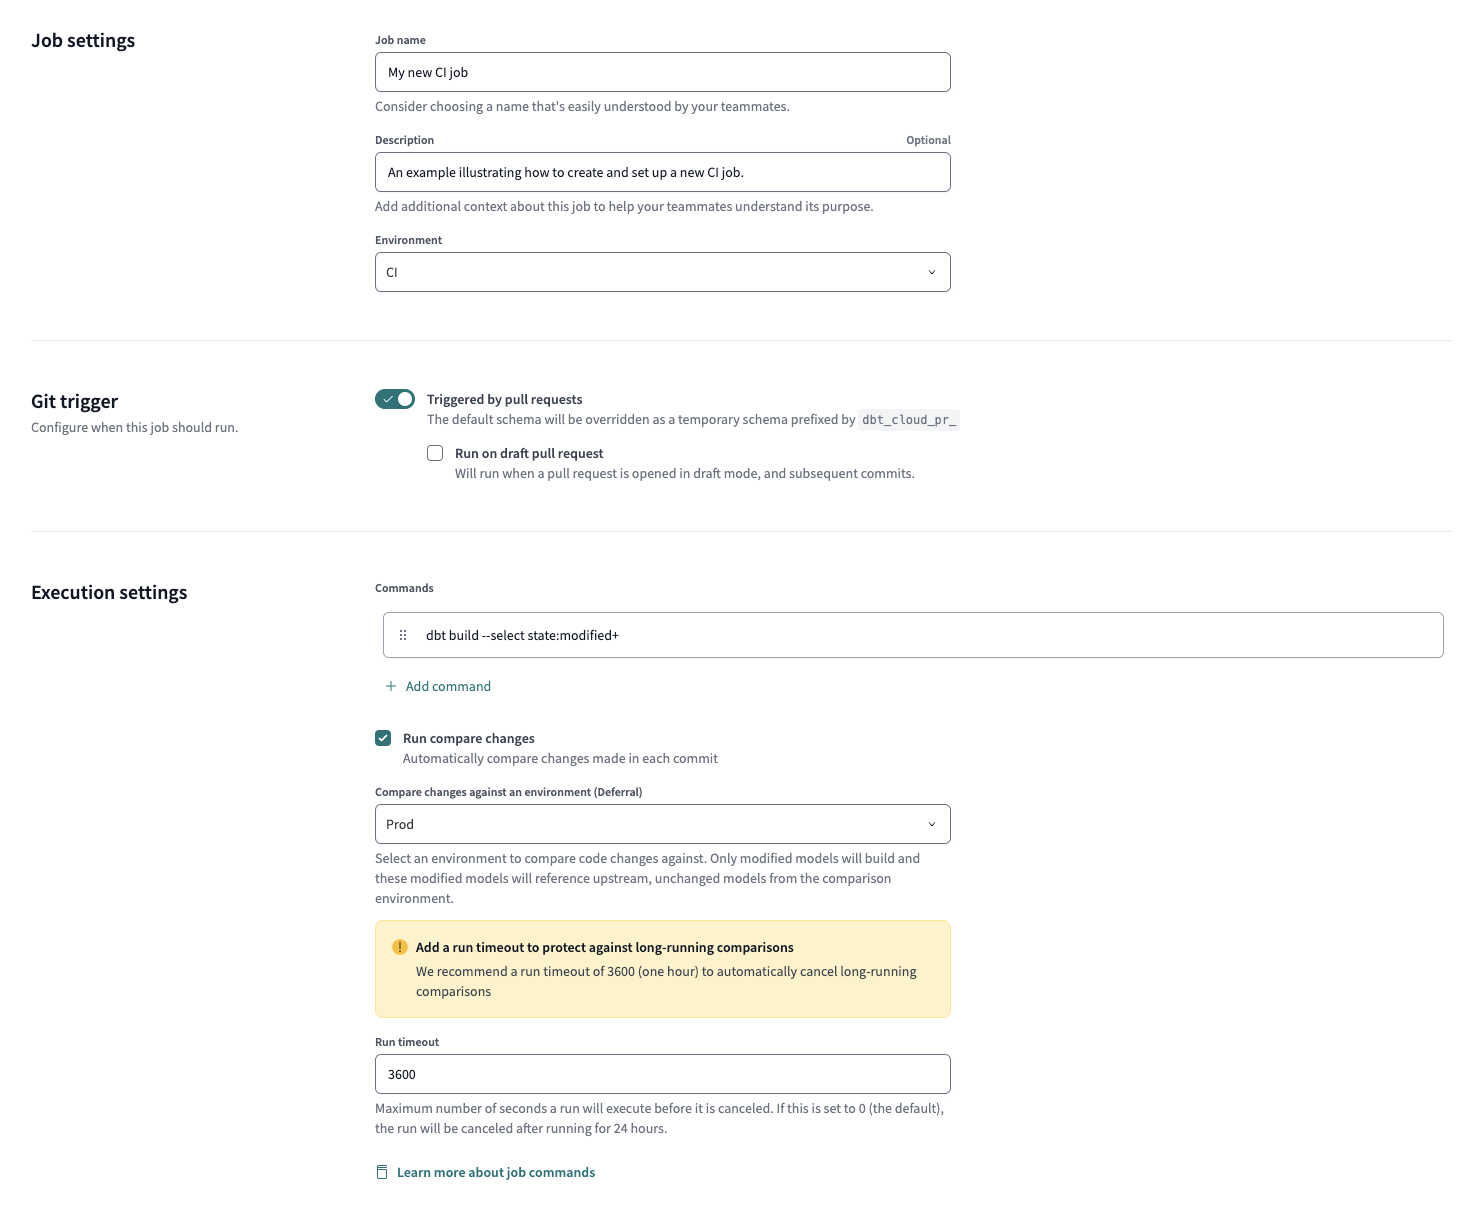
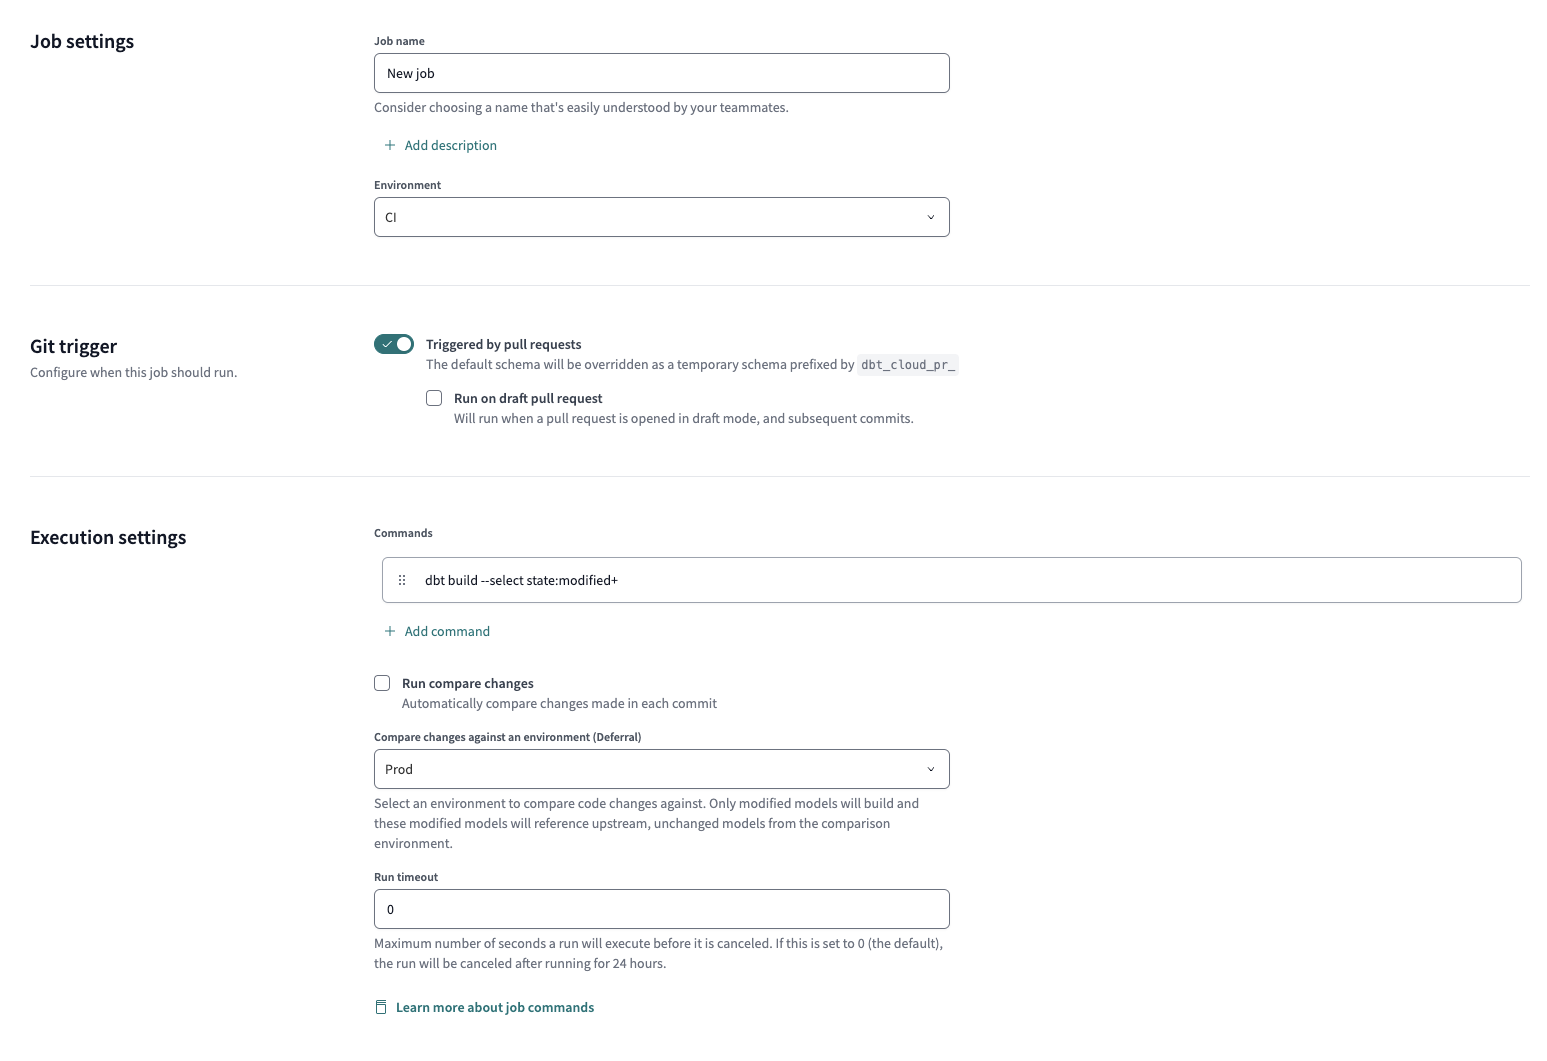
More refinements and new screenshots

diff --git a/website/docs/docs/deploy/ci-jobs.md b/website/docs/docs/deploy/ci-jobs.md
@@ -32,7 +32,7 @@ To make CI job creation easier, many options on the **CI job** page are set to d
 
 1. Options in the **Execution settings** section:
     - **Commands** &mdash; By default, it includes the `dbt build --select state:modified+` command. This informs dbt Cloud to build only new or changed models and their downstream dependents. Importantly, state comparison can only happen when there is a deferred environment selected to compare state to. Click **Add command** to add more [commands](/docs/deploy/job-commands)  that you want to be invoked when this job runs.
-    - **Run compare changes** &mdash; LOREM IPSUM Enable to compare changes between job runs. When enabled, you can review [Compare](/docs/deploy/run-visibility#compare-tab) dashboard. Refer to [Advanced CI](/docs/deploy/continuous-integration#advanced-ci) for more details. LOREM IPSUM
+    - **Run compare changes**<Lifecycle status="beta" /> &mdash; Enable this option to compare the last applied state of the production environment (if one exists) with the latest changes from the pull request, and identify what those differences are. To review the comparison report, browse to the [Compare tab](/docs/deploy/run-visibility#compare-tab) in the job run's details. A summary of the report is also available from the pull request in your Git provider (see [example](#example-ci-report)).
     - **Compare changes against an environment (Deferral)** &mdash; By default, it’s set to the **Production** environment if you created one. This option allows dbt Cloud to check the state of the code in the PR against the code running in the deferred environment, so as to only check the modified code, instead of building the full table or the entire DAG.
 
       :::info
@@ -51,12 +51,17 @@ To make CI job creation easier, many options on the **CI job** page are set to d
    - **Generate docs on run** &mdash; Enable this option if you want to [generate project docs](/docs/collaborate/build-and-view-your-docs) when this job runs. This option is disabled by default since most teams do not want to test doc generation on every CI check.
     - **Run source freshness** &mdash; Enable this option to invoke the `dbt source freshness` command before running this CI job. Refer to [Source freshness](/docs/deploy/source-freshness) for more details.
 
-   <Lightbox src="/img/docs/dbt-cloud/using-dbt-cloud/create-ci-job.png" title="Example of CI Job page in dbt Cloud UI"/>
+   <Lightbox src="/img/docs/dbt-cloud/using-dbt-cloud/create-ci-job.png" width="90%" title="Example of CI Job page in dbt Cloud UI"/>
 
-### Example of GitHub pull request
-The following is an example of GitHub pull request. The green checkmark means the dbt build and tests were successful. Clicking on the dbt Cloud section navigates you to the relevant CI run in dbt Cloud.
+### Example of CI check in pull request {#example-ci-check}
+The following is an example of a CI check in a GitHub pull request. The green checkmark means the dbt build and tests were successful. Clicking on the dbt Cloud section navigates you to the relevant CI run in dbt Cloud.
 
-<Lightbox src="/img/docs/dbt-cloud/using-dbt-cloud/example-github-pr.png" width="60%" title="GitHub pull request example"/>
+<Lightbox src="/img/docs/dbt-cloud/using-dbt-cloud/example-github-pr.png" width="60%" title="Example of CI check in GitHub pull request"/>
+
+### Example of CI report in pull request <Lifecycle status="beta" /> {#example-ci-report}
+The following is an example of a CI report in a GitHub pull request, which is shown when the **Run compare changes** option is enabled for the CI job. It displays a high-level summary of the models that changed from the pull request.
+
+<Lightbox src="/img/docs/dbt-cloud/using-dbt-cloud/example-github-ci-report.png" width="75%" title="Example of CI report comment in GitHub pull request"/>
 
 ## Trigger a CI job with the API
 

diff --git a/website/docs/docs/deploy/continuous-integration.md b/website/docs/docs/deploy/continuous-integration.md
@@ -58,14 +58,11 @@ CI runs don't consume run slots. This guarantees a CI check will never block a p
 
 <Expandable alt_header="Compare changes" lifecycle="beta" >
 
-When a pull request is opened or new commits are pushed, dbt Cloud enqueues a new CI run _and_ compares the changes between the last applied state of the production environment (using deferral to lower compute) and the latest changes from the pull request. By analyzing these comparisons, you can gain a better understanding of how the data changes are affected by code changes to help ensure trusted data products are being developed. 
+ When a pull request is opened or new commits are pushed, dbt Cloud compares the changes between the last applied state of the production environment (defaulting to deferral for lower computation costs) and the latest changes from the pull request for CI jobs that have the **Run compare changes** option enabled. By analyzing these comparisons, you can gain a better understanding of how the data changes are affected by code changes to help ensure trusted data products are being developed. 
 
-dbt provides the comparison details
+dbt reports the comparison differences:
 
-For comparison details, you can view the comparison details: 
-After the comparison, you can view:
-
-- In dbt Cloud &mdash; Shows the changes (if any) to the data's primary keys, rows, and columns. To learn more, refer to the [Compare tab](/docs/deploy/run-visibility#compare-tab) in the [Job run details](/docs/deploy/run-visibility#job-run-details). 
-- From the pull request in your Git provider &mdash; Shows a summary of the changes, as a git comment.
+- **In dbt Cloud** &mdash; Shows the changes (if any) to the data's primary keys, rows, and columns. To learn more, refer to the [Compare tab](/docs/deploy/run-visibility#compare-tab) in the [Job run details](/docs/deploy/run-visibility#job-run-details). 
+- **In the pull request from your Git provider** &mdash; Shows a summary of the changes, as a git comment.
 
 </Expandable>

diff --git a/website/docs/docs/deploy/run-visibility.md b/website/docs/docs/deploy/run-visibility.md
@@ -59,7 +59,7 @@ Provides a list of the artifacts that were generated from the job run. dbt saves
 
 The **Compare** tab is shown for [CI job runs](/docs/deploy/ci-jobs) with the **Run compare changes** setting enabled. It displays details about [the changes from the comparison dbt performed](/docs/deploy/continuous-integration#compare-changes) between what's in your production environment and the pull request. To help you better visualize the differences, dbt Cloud highlights changes to your models in red (deletions) and green (inserts).
 
-From the **Modified** section, you can view the:
+From the **Modified** section, you can view the following:
 
 - **Overview** &mdash; High-level summary about the changes to the models such as the number of primary keys that were added or removed. 
 - **Primary keys** &mdash; Details about the changes to the records.
